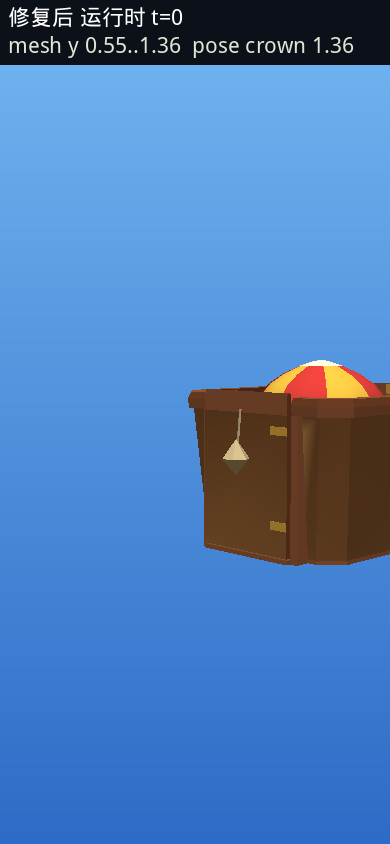
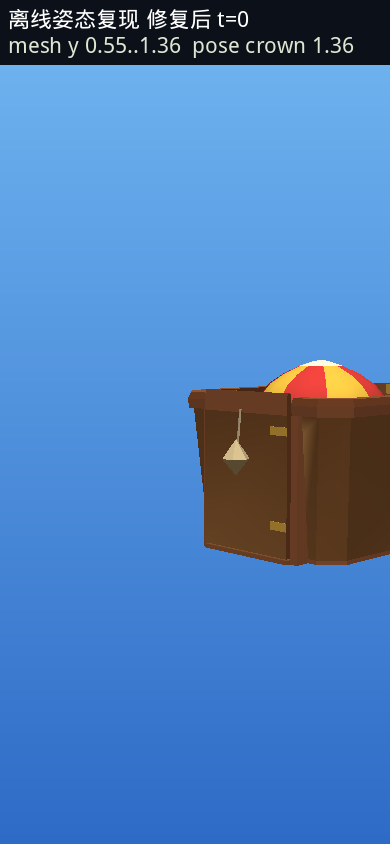
study(balloon): one offline limp-cloth shape, not the transition
The uniform cap is the rejected reference. The proposal is a vertex fold
of the real envelope texture into one slack pile, rendered in a fixed
view. It is not called from the inflate pose. The fidelity compare title
now says 离线姿态复现.

Changed region(s): [[0.0308, 0.0, 0.6462, 0.0308]]

diff --git a/tools/scene-fx/render_deflated_cloth_study.py b/tools/scene-fx/render_deflated_cloth_study.py
@@ -1,0 +1,180 @@
+#!/usr/bin/env python3
+"""One fixed-view deflated-cloth shape study. Not a runtime pose and not a game camera.
+
+Left: the rejected uniform-scale cap (current balloonDrapePose at t=0).
+Right: one proposed limp pile. Same real envelope texture and the same basket mesh.
+The proposal only moves a copy of the envelope vertices. The cruise glTF is untouched,
+and nothing here is called from BalloonDrape or the inflate clock.
+"""
+from __future__ import annotations
+
+import json
+import os
+import subprocess
+from pathlib import Path
+
+import numpy as np
+from PIL import Image, ImageDraw, ImageFont
+
+ROOT = Path(__file__).resolve().parents[2]
+OUT = ROOT / "product/2026-11-06/balloon-deflated-cloth-study"
+HERE = Path(__file__).resolve().parent
+BANNER = "离线形态小样，非游戏镜头验收"
+
+
+def load_render():
+    import importlib.util
+    spec = importlib.util.spec_from_file_location("bal_render", HERE / "render_balloon_inflate.py")
+    mod = importlib.util.module_from_spec(spec)
+    spec.loader.exec_module(mod)
+    return mod
+
+
+def rejected_pose():
+    """Current candidate t=0, the hard cap the coordinator rejected. Not a new shape."""
+    env = os.environ.copy()
+    env["QF_TYPESCRIPT_MODULE"] = env.get("QF_TYPESCRIPT_MODULE", "/tmp/tsmod/node_modules/typescript")
+    script = r"""
+const path=require('path');
+const H=require('./tools/board-ui/harness.cjs').createHarness();
+const D=H.load(path.resolve('creator-build-project/assets/scripts/region/BalloonDrape.ts'));
+const home={p:{x:0,y:-3.05,z:0},s:{x:1,y:1,z:1}};
+const p=D.balloonDrapePose(0);
+process.stdout.write(JSON.stringify(Object.assign({localY:D.envelopeLocalY(p,home)}, p)));
+"""
+    return json.loads(subprocess.check_output(["node", "-e", script], cwd=ROOT, env=env))
+
+
+def envelope_local(R, js, blob):
+    names = {n["name"]: i for i, n in enumerate(js["nodes"])}
+    i = names["balloon_envelope"]
+    prim = js["meshes"][js["nodes"][i]["mesh"]]["primitives"][0]
+    pos = R.read_acc(js, blob, prim["attributes"]["POSITION"]).astype(np.float64).reshape(-1, 3)
+    nrm = R.read_acc(js, blob, prim["attributes"]["NORMAL"]).astype(np.float64).reshape(-1, 3)
+    uv = R.read_acc(js, blob, prim["attributes"]["TEXCOORD_0"]).astype(np.float64).reshape(-1, 2)
+    idx = R.read_acc(js, blob, prim["indices"]).reshape(-1, 3).astype(np.int64)
+    return pos, nrm, uv, idx, i
+
+
+def limp_pile(P):
+    """One authored slack pose of the real teardrop. No accordion, so the long
+    triangles stay short. The white crown is stuffed under the colored gores.
+    Not applied at cruise."""
+    y = P[:, 1]
+    u = np.clip((y - 3.05) / 7.35, 0.0, 1.0)
+    theta = np.arctan2(P[:, 2], P[:, 0])
+    stuffed = np.clip((u - 0.72) / 0.28, 0.0, 1.0)
+    vis = np.clip(u / 0.72, 0.0, 1.0)
+    lobe = np.sin(theta * 4.0 + 0.6)
+    crease = np.sin(theta * 8.0 + 0.3)
+    y_in = 0.42 + 0.50 * np.power(vis, 0.55)
+    y_in = y_in + 0.045 * lobe * vis + 0.05 * crease * vis
+    r_in = 0.12 + 0.40 * np.power(vis, 0.40)
+    r_in = r_in * (0.80 + 0.20 * (0.5 + 0.5 * lobe))
+    r_in = r_in * (0.88 + 0.12 * crease)
+    r_in = np.minimum(r_in, 0.58)
+    y_in = np.clip(y_in, 0.40, 1.02)
+    # A short flap of the colored body lies on the near lip. It does not pierce the wall.
+    near = np.clip(np.cos(theta - 1.15), 0.0, 1.0)
+    spill = near * np.clip((vis - 0.50) / 0.30, 0.0, 1.0) * (1.0 - stuffed)
+    r_lip = 0.62 + 0.22 * spill
+    y_lip = 1.06 - 0.08 * spill
+    r = r_in * (1.0 - spill) + r_lip * spill
+    y_out = y_in * (1.0 - spill) + y_lip * spill
+    y_out = y_out * (1.0 - stuffed) + (0.40 + 0.05 * np.sin(theta * 5.0)) * stuffed
+    r = r * (1.0 - 0.70 * stuffed) + 0.14 * stuffed
+    return np.column_stack((r * np.cos(theta), y_out, r * np.sin(theta)))
+
+
+def tris_from(R, js, blob, images, node_i, pos, nrm, uv, idx, M):
+    prim = js["meshes"][js["nodes"][node_i]["mesh"]]["primitives"][0]
+    Rm = M[:3, :3]
+    pw = pos @ Rm.T + M[:3, 3]
+    nw = nrm @ np.linalg.inv(Rm).T
+    nw /= np.linalg.norm(nw, axis=1, keepdims=True) + 1e-8
+    mat = prim.get("material", 0)
+    tex_i = js["materials"][mat]["pbrMetallicRoughness"]["baseColorTexture"]["index"]
+    tex = images[js["textures"][tex_i]["source"]]
+    col = np.stack([R.sample(tex, uv[i, 0], uv[i, 1]) for i in range(len(uv))])
+    out = []
+    for a, b, c in idx:
+        # Face normal of the deformed triangle, so a fold reads as a crease.
+        fn = np.cross(pw[b] - pw[a], pw[c] - pw[a])
+        fn = fn / (np.linalg.norm(fn) + 1e-8)
+        out.append((pw[a], pw[b], pw[c], fn, fn, fn, col[a], col[b], col[c]))
+    return out
+
+
+def label(img, font, line):
+    d = ImageDraw.Draw(img)
+    d.rectangle((0, 0, img.width, 72), fill=(12, 16, 24))
+    d.text((8, 6), BANNER, fill=(255, 220, 160), font=font)
+    d.text((8, 38), line, fill=(255, 255, 255), font=font)
+    return img
+
+
+def main():
+    R = load_render()
+    R.W, R.H = 390, 844
+    js, blob = R.load_glb(R.GLB)
+    images, world_of = R.gather(js, blob)
+    names = {n["name"]: i for i, n in enumerate(js["nodes"])}
+    parents = {c: i for i, n in enumerate(js["nodes"]) for c in n.get("children", [])}
+
+    def world_matrix(i, override=None):
+        M = np.eye(4)
+        chain, a, seen = [], i, set()
+        while a is not None and a not in seen:
+            seen.add(a)
+            chain.append(a)
+            a = parents.get(a)
+        for k in reversed(chain):
+            ov = override if (override is not None and k == i) else None
+            M = M @ R.node_matrix(js["nodes"][k], ov)
+        return M
+
+    env_i = names["balloon_envelope"]
+    pos, nrm, uv, idx, _ = envelope_local(R, js, blob)
+    pile = limp_pile(pos)
+    # Proposed specimen stays a copy. Cruise vertices are the glTF positions, unused here except as input.
+    pose = rejected_pose()
+    cap_ov = {"translation": [0, pose["localY"], 0], "scale": [pose["sxz"], pose["sy"], pose["sxz"]]}
+    basket_tris = []
+    for i, n in enumerate(js["nodes"]):
+        if "mesh" not in n or n["name"] in ("balloon_envelope", "balloon_load_frame", "burner_flame"):
+            continue
+        basket_tris.extend(R.mesh_tris(js, blob, images, i, world_of(i, {})))
+    cap_tris = tris_from(R, js, blob, images, env_i, pos, nrm, uv, idx, world_matrix(env_i, cap_ov))
+    # limp_pile already emits root-space metres.
+    limp_tris = tris_from(R, js, blob, images, env_i, pile, nrm, uv, idx, np.eye(4))
+    eye = np.array([0.15, 2.35, 2.55])
+    target = np.array([0.0, 0.72, 0.0])
+    fov = 32.0
+    font = ImageFont.truetype("/usr/share/fonts/truetype/wqy/wqy-microhei.ttc", 22)
+    left = label(Image.fromarray(R.render(basket_tris + cap_tris, eye, target, fov)), font, "已否：均匀缩小的硬顶")
+    right = label(Image.fromarray(R.render(basket_tris + limp_tris, eye, target, fov)), font, "提案：一层松垮褶皱（未接入运行时）")
+    both = Image.new("RGB", (left.width * 2 + 8, left.height), (12, 16, 24))
+    both.paste(left, (0, 0))
+    both.paste(right, (left.width + 8, 0))
+    OUT.mkdir(parents=True, exist_ok=True)
+    left.save(OUT / "study-rejected-cap.png")
+    right.save(OUT / "study-proposed-limp.png")
+    both.save(OUT / "study-compare.png")
+    y = pile[:, 1]
+    r = np.hypot(pile[:, 0], pile[:, 2])
+    (OUT / "study.json").write_text(json.dumps({
+        "specimen": "proposed-geometry-only",
+        "runtimeImplementation": False,
+        "cruiseMesh": "unchanged transport_balloon.glb",
+        "basket": "authored balloon_basket, unscaled",
+        "colors": "envelope baseColorTexture, unchanged",
+        "view": {"eye": eye.tolist(), "target": target.tolist(), "fov": fov, "note": BANNER},
+        "rejectedCap": {"mouthY": pose["mouthY"], "crownY": pose["crownY"], "sy": pose["sy"], "sxz": pose["sxz"]},
+        "proposedPile": {"yMin": round(float(y.min()), 3), "yMax": round(float(y.max()), 3), "rMax": round(float(r.max()), 3)},
+    }, indent=2) + "\n")
+    print("pile y", round(float(y.min()), 3), round(float(y.max()), 3), "r", round(float(r.max()), 3))
+    print("wrote", OUT)
+
+
+if __name__ == "__main__":
+    main()

diff --git a/tools/scene-fx/render_balloon_swell_fidelity.py b/tools/scene-fx/render_balloon_swell_fidelity.py
@@ -149,7 +149,7 @@ def main():
         pose = dict(pack["times"][0][kind])
         pose["t"] = 0
         checked(pose, kind + " t=0")
-        zh = "修复前 运行时" if kind == "before" else "修复后 运行时"
+        zh = "离线姿态复现 修复前" if kind == "before" else "离线姿态复现 修复后"
         img = shoot(pose, eye, target, fov, f"{zh} t=0")
         img.save(OUT / f"fidelity-close-{kind}-t0.png")
         pair.append(img)
